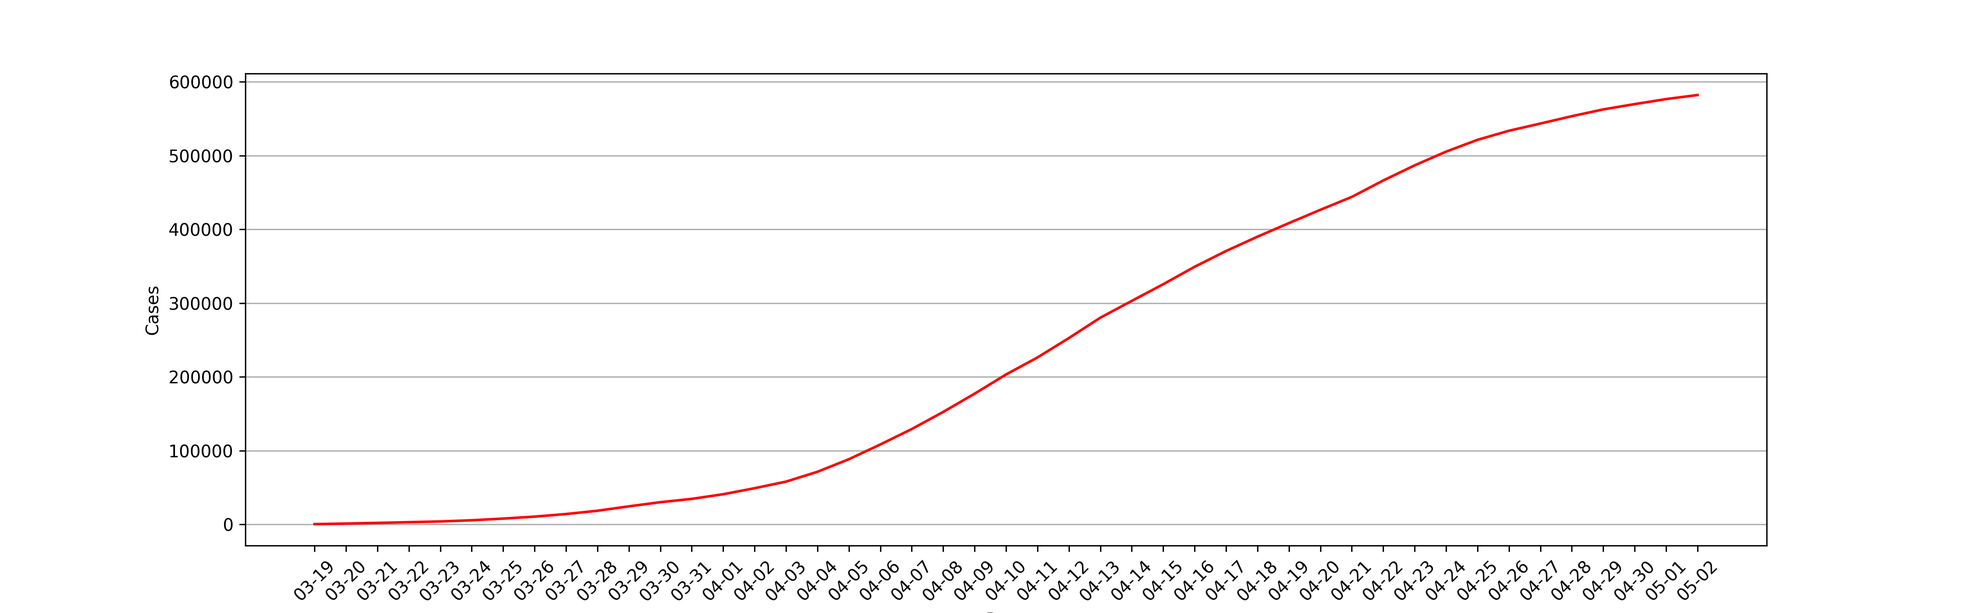
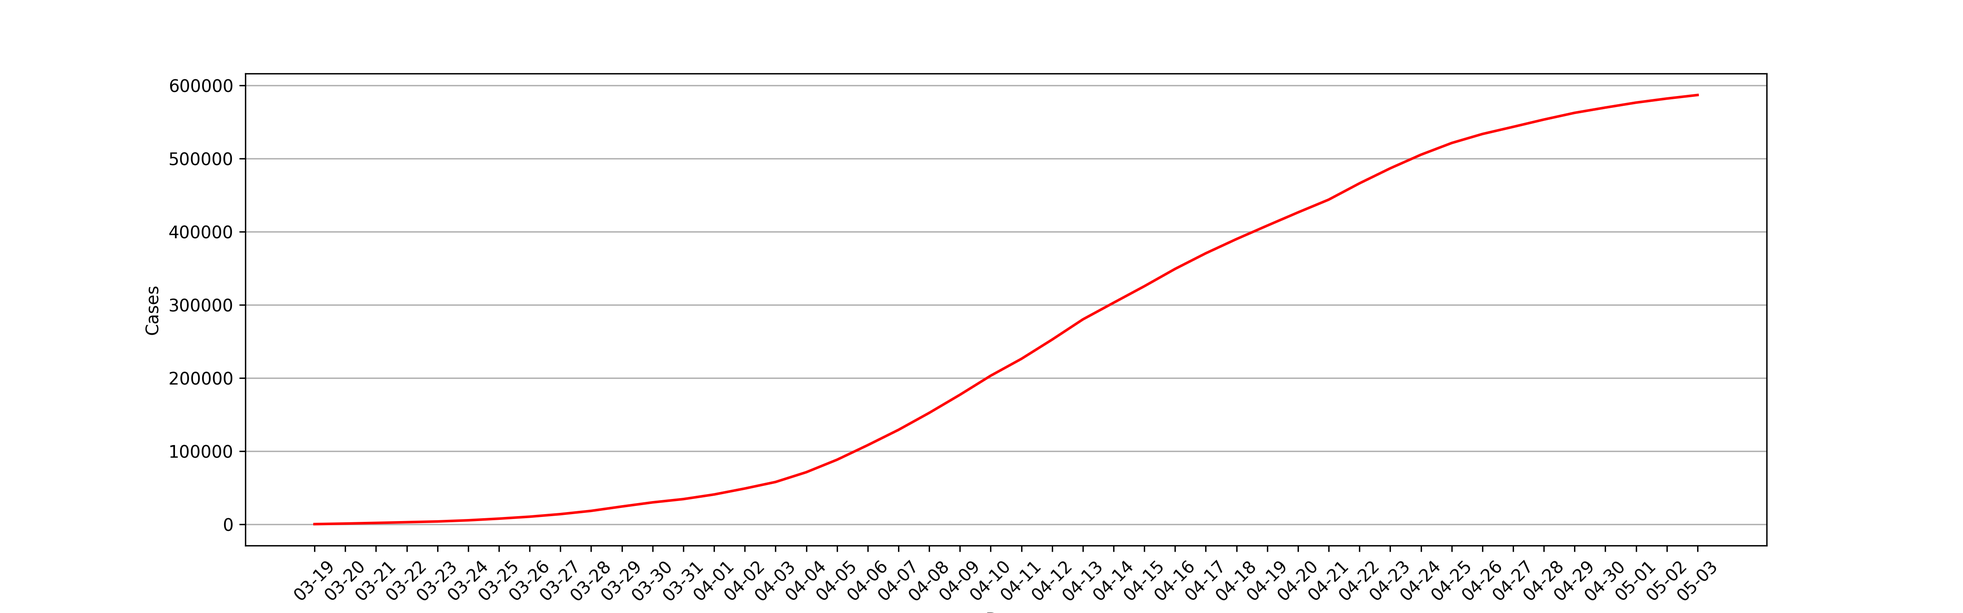
Commit by bot @ 05/04/22 11:15:01

diff --git a/archived_html/ecb75009fe8cff3799d129796f8cfec4.html b/archived_html/ecb75009fe8cff3799d129796f8cfec4.html
@@ -1,0 +1,151 @@
+<!DOCTYPE html>
+<html lang="zh-Hans">
+<head>
+    <meta charset="utf-8">
+    <meta http-equiv="Content-Security-Policy" content="upgrade-insecure-requests">
+    <meta name="viewport" content="width=device-width, initial-scale=1, maximum-scale=1, user-scalable=no">
+    <meta http-equiv="X-UA-Compatible" content="IE=Edge,chrome=1">
+    <meta http-equiv="Cache-Control" content="no-siteapp" />
+    <meta name="renderer" content="webkit">
+    <meta name="apple-mobile-web-app-capable" content="yes" />
+    <meta name="apple-mobile-web-app-status-bar-style" content="black" />
+    <title>上海2022年5月3日，新增本土新冠肺炎确诊病例260例 新增本土无症状感染者4722例 新增境外输入性新冠肺炎确诊病例3例 新增境外输入性无症状感染者1例__上海市卫生健康委员会</title>
+    <meta name="ColumnDescription" content="新闻发布"><!-- * -->
+    <meta name="ColumnKeywords" content="新闻发布"><!-- * -->
+    <!--<meta name="ColumnType" content=""> * -->
+    <meta name="ColumnName" content="新闻发布"><!-- * -->
+    <meta name="ArticleTitle" content="上海2022年5月3日，新增本土新冠肺炎确诊病例260例 新增本土无症状感染者4722例 新增境外输入性新冠肺炎确诊病例3例 新增境外输入性无症状感染者1例"><!-- * -->
+    <meta name="PubDate" content="2022-05-04"><!-- * -->
+    <meta name="ContentSource" content="上海市卫生健康委员会"><!-- * -->
+    <meta name="Author" content="上海市卫生健康委员会">
+    <meta name="Description" content="" />
+    <meta name="applicable-device" content="pc;mobile">
+    <meta name="location" content="北纬N31°11′51.89″ 东经E121°30′5.42″">
+    <!-- min CSS -->
+    <link rel="stylesheet" href="/assets/css/ETUI/ETUI3.min.css">
+    <!-- Custom CSS -->
+    <link rel="stylesheet" href="/assets/plugin/owl/owl.carousel.css">
+    <link rel="stylesheet" href="/assets/css/style.css">
+    <link rel="stylesheet" href="/assets/css/responsive.css">
+    <link rel="stylesheet" href="/assets/css/ETUI/ETUI3.Utility.css">
+    <!-- icons -->
+    <link rel="shortcut icon" href="/assets/img/ico/favicon.png">
+    <!-- 无障碍工具条 -->
+   <!-- <link rel="stylesheet" href="http://www.shanghai.gov.cn/jhelper_V2.0/jhelper_tool_style.css">
+    <script src="http://www.shanghai.gov.cn/jhelper_V2.0/wsj/jhelper_config.js" charset="gb2312"></script>
+    <noscript>不能读取工具条配置</noscript>
+    <script src="http://www.shanghai.gov.cn/jhelper_V2.0/jhelper_2.0.js" charset="gb2312"></script>
+    <noscript>不能读取工具条</noscript> 
+     -->
+    <script type="text/javascript">
+        function onsubmmit(pageIndex){
+            $("#pageIndex").val(1);
+            $("#searchField").val("0");
+            $("#timeScope").val("0");
+            $("#cmsSearchId").val("0");
+            $("#searchForm").submit();
+        }
+        function onselsubmmit(){
+            $("#pageIndex").val(1);
+            $("#searchForm").submit();
+        }
+        function psubmmit(pageIndex){
+            $("#pageIndex").val(pageIndex);
+            $("#searchForm").submit();
+        }
+        // 栏目
+        function chsubmmit(searchChId){
+            $("#pageIndex").val(1);
+            $("#searchField").val("0");
+            $("#timeScope").val("0");
+            $("#cmsSearchId").val(searchChId);
+            $("#searchForm").submit();
+        }
+    </script> 
+    <!-- 无障碍工具条 -->
+</head>
+<body>
+    <div id="accessNull"></div>
+    <div id="container">
+        <div class="channelinfo hidden"></div>
+        <script src="/assets/js/header.js"></script>
+        <div class="main" id="main">
+            <script src="/assets/js/jiansuo.js"></script>
+            <div class="main-container margin-top-15">
+                <div class="container ">
+                    <div class="relitive">
+                        <ol class="breadcrumb">
+                           <span>您现在所在的位置：</span>
+                            <li><a href="/index.html">首页</a></li>
+                            <li class="active">新闻中心</li>
+                           
+                            <li class="active">新闻发布</li>
+                           
+                        </ol>
+                        <div class="date-se">
+                            <i class="iconfont">&#xe60b;</i> <span id="time"></span>
+                        </div>
+                    </div>
+
+                    <div class="Article">
+                        <h2 id="ivs_title" class="Article-title">上海2022年5月3日，新增本土新冠肺炎确诊病例260例 新增本土无症状感染者4722例 新增境外输入性新冠肺炎确诊病例3例 新增境外输入性无症状感染者1例</br>
+                         <h2 class="Article-title">
+                            <small id="ivs_date" class="Article-time">( 2022-05-04)</small>
+                        </h2>
+                        <div id="ivs_player" style="text-align:center;"></div>
+                        <div id="ivs_content" class="Article_content">
+                           
+                                 <p style="font-size: medium;white-space: normal;margin-top: 10px;text-indent: 40px"><span style="font-size: 20px;font-family: 仿宋_GB2312">市卫健委今早（4日）通报：2022年5月3日0—24时，新增本土新冠肺炎确诊病例260和无症状感染者4722例，其中151例确诊病例为既往无症状感染者转归，108例确诊病例和4660例无症状感染者在隔离管控中发现。新增境外输入性新冠肺炎确诊病例3例和无症状感染者1例，均在闭环管控中发现。</span></p><p style="font-size: medium;white-space: normal;margin-top: 10px;text-indent: 40px"><span style="font-size: 20px;font-family: 仿宋_GB2312">2022</span><span style="font-size: 20px;font-family: 仿宋_GB2312">年5月3日0—24时，新增本土新冠肺炎确诊病例260例，含151例由既往无症状感染者转为确诊病例。新增治愈出院1869例。</span></p><p style="font-size: medium;white-space: normal;margin-top: 10px;text-indent: 40px"><strong><span style="font-size: 20px;font-family: 黑体">病例1—病例33</span></strong><span style="font-size: 20px;font-family: 仿宋_GB2312">，居住于浦东新区，</span><strong><span style="font-size: 20px;font-family: 黑体">病例34</span></strong><span style="font-size: 20px;font-family: 仿宋_GB2312">，居住于黄浦区，</span><strong><span style="font-size: 20px;font-family: 黑体">病例35—病例39</span></strong><span style="font-size: 20px;font-family: 仿宋_GB2312">，居住于徐汇区，</span><strong><span style="font-size: 20px;font-family: 黑体">病例40、病例41</span></strong><span style="font-size: 20px;font-family: 仿宋_GB2312">，居住于长宁区，</span><strong><span style="font-size: 20px;font-family: 黑体">病例42—病例50</span></strong><span style="font-size: 20px;font-family: 仿宋_GB2312">，居住于静安区，</span><strong><span style="font-size: 20px;font-family: 黑体">病例51—病例53</span></strong><span style="font-size: 20px;font-family: 仿宋_GB2312">，居住于普陀区，</span><strong><span style="font-size: 20px;font-family: 黑体">病例54—病例56</span></strong><span style="font-size: 20px;font-family: 仿宋_GB2312">，居住于虹口区，</span><strong><span style="font-size: 20px;font-family: 黑体">病例57—病例62</span></strong><span style="font-size: 20px;font-family: 仿宋_GB2312">，居住于杨浦区，</span><strong><span style="font-size: 20px;font-family: 黑体">病例63—病例65</span></strong><span style="font-size: 20px;font-family: 仿宋_GB2312">，居住于闵行区，</span><strong><span style="font-size: 20px;font-family: 黑体">病例66—病例81</span></strong><span style="font-size: 20px;font-family: 仿宋_GB2312">，居住于宝山区，</span><strong><span style="font-size: 20px;font-family: 黑体">病例82—病例108</span></strong><span style="font-size: 20px;font-family: 仿宋_GB2312">，居住于松江区，均为本市闭环隔离管控人员，其间新冠病毒核酸检测结果异常，经疾控中心复核结果为阳性。经市级专家会诊，综合流行病学史、临床症状、实验室检测和影像学检查结果等，诊断为确诊病例。</span></p><p style="font-size: medium;white-space: normal;margin-top: 10px;text-indent: 40px"><strong><span style="font-size: 20px;font-family: 黑体">病例109</span></strong><span style="font-size: 20px;font-family: 仿宋_GB2312">，居住于松江区，</span><span style="font-size: 20px;font-family: 仿宋_GB2312">在风险人群筛查中发现新冠病毒核酸检测结果异常，即被隔离管控。经疾控中心复核结果为阳性。经市级专家会诊，综合流行病学史、临床症状、实验室检测和影像学检查结果等，诊断为确诊病例。</span></p><p style="font-size: medium;white-space: normal;margin-top: 10px;text-indent: 40px"><strong><span style="font-size: 20px;font-family: 黑体">病例110—病例125</span></strong><span style="font-size: 20px;font-family: 仿宋_GB2312">，居住于浦东新区，</span><strong><span style="font-size: 20px;font-family: 黑体">病例126—病例151</span></strong><span style="font-size: 20px;font-family: 仿宋_GB2312">，居住于黄浦区，</span><strong><span style="font-size: 20px;font-family: 黑体">病例152—病例172</span></strong><span style="font-size: 20px;font-family: 仿宋_GB2312">，居住于徐汇区，</span><strong><span style="font-size: 20px;font-family: 黑体">病例173—病例176</span></strong><span style="font-size: 20px;font-family: 仿宋_GB2312">，居住于长宁区，</span><strong><span style="font-size: 20px;font-family: 黑体">病例177—病例184</span></strong><span style="font-size: 20px;font-family: 仿宋_GB2312">，居住于静安区，</span><strong><span style="font-size: 20px;font-family: 黑体">病例185—病例189</span></strong><span style="font-size: 20px;font-family: 仿宋_GB2312">，居住于普陀区，</span><strong><span style="font-size: 20px;font-family: 黑体">病例190—病例197</span></strong><span style="font-size: 20px;font-family: 仿宋_GB2312">，居住于虹口区，</span><strong><span style="font-size: 20px;font-family: 黑体">病例198—病例218</span></strong><span style="font-size: 20px;font-family: 仿宋_GB2312">，居住于杨浦区，</span><strong><span style="font-size: 20px;font-family: 黑体">病例219—病例230</span></strong><span style="font-size: 20px;font-family: 仿宋_GB2312">，居住于闵行区，</span><strong><span style="font-size: 20px;font-family: 黑体">病例231—病例248</span></strong><span style="font-size: 20px;font-family: 仿宋_GB2312">，居住于宝山区，</span><strong><span style="font-size: 20px;font-family: 黑体">病例249—病例252</span></strong><span style="font-size: 20px;font-family: 仿宋_GB2312">，居住于嘉定区，</span><strong><span style="font-size: 20px;font-family: 黑体">病例253—病例258</span></strong><span style="font-size: 20px;font-family: 仿宋_GB2312">，居住于松江区，</span><strong><span style="font-size: 20px;font-family: 黑体">病例259、病例260</span></strong><span style="font-size: 20px;font-family: 仿宋_GB2312">，居住于青浦区，为此前报告的本土无症状感染者。</span><span style="font-size: 20px;font-family: 仿宋_GB2312">经市级专家会诊，综合流行病学史、临床症状、实验室检测和影像学检查结果等，诊断为确诊病例。</span></p><p style="font-size: medium;white-space: normal;margin-top: 10px;text-indent: 40px"><span style="font-size: 20px;font-family: 仿宋_GB2312">2022</span><span style="font-size: 20px;font-family: 仿宋_GB2312">年5月3日0—24时，新增本土死亡16例。平均年龄82.9岁，最小年龄64岁，最大年龄99岁。16位患者均合并有严重的多脏器慢性基础疾病及恶性肿瘤，包括慢性淋巴细胞性白血病、肺癌合并咯血、冠心病、心功能不全、急性冠脉综合征、高血压3级（极高危）、脑梗死及后遗症、帕金森病、阿尔兹海默症、糖尿病、肝硬化失代偿伴急性上消化道大出血等。患者入院后，原发疾病加重，经抢救无效死亡。死亡的直接原因均为基础疾病。</span></p><p style="font-size: medium;white-space: normal;margin-top: 10px;text-indent: 40px"><span style="font-size: 20px;font-family: 仿宋_GB2312">2022</span><span style="font-size: 20px;font-family: 仿宋_GB2312">年5月3日0—24时，新增本土无症状感染者4722例。</span></p><p style="font-size: medium;white-space: normal;margin-top: 10px;text-indent: 40px"><strong><span style="font-size: 20px;font-family: 黑体">无症状感染者1—无症状感染者833</span></strong><span style="font-size: 20px;font-family: 仿宋_GB2312">，居住于浦东新区，</span><strong><span style="font-size: 20px;font-family: 黑体">无症状感染者834—无症状感染者1710</span></strong><span style="font-size: 20px;font-family: 仿宋_GB2312">，居住于黄浦区，</span><strong><span style="font-size: 20px;font-family: 黑体">无症状感染者1711—无症状感染者2045</span></strong><span style="font-size: 20px;font-family: 仿宋_GB2312">，居住于徐汇区，</span><strong><span style="font-size: 20px;font-family: 黑体">无症状感染者2046—无症状感染者2137</span></strong><span style="font-size: 20px;font-family: 仿宋_GB2312">，居住于长宁区，</span><strong><span style="font-size: 20px;font-family: 黑体">无症状感染者2138—无症状感染者2685</span></strong><span style="font-size: 20px;font-family: 仿宋_GB2312">，居住于静安区，</span><strong><span style="font-size: 20px;font-family: 黑体">无症状感染者2686—无症状感染者2739</span></strong><span style="font-size: 20px;font-family: 仿宋_GB2312">，居住于普陀区，</span><strong><span style="font-size: 20px;font-family: 黑体">无症状感染者2740—无症状感染者3084</span></strong><span style="font-size: 20px;font-family: 仿宋_GB2312">，居住于虹口区，</span><strong><span style="font-size: 20px;font-family: 黑体">无症状感染者3085—无症状感染者3472</span></strong><span style="font-size: 20px;font-family: 仿宋_GB2312">，居住于杨浦区，</span><strong><span style="font-size: 20px;font-family: 黑体">无症状感染者3473—无症状感染者3709</span></strong><span style="font-size: 20px;font-family: 仿宋_GB2312">，居住于闵行区，</span><strong><span style="font-size: 20px;font-family: 黑体">无症状感染者3710—无症状感染者4289</span></strong><span style="font-size: 20px;font-family: 仿宋_GB2312">，居住于宝山区，</span><strong><span style="font-size: 20px;font-family: 黑体">无症状感染者4290—无症状感染者4459</span></strong><span style="font-size: 20px;font-family: 仿宋_GB2312">，居住于嘉定区，</span><strong><span style="font-size: 20px;font-family: 黑体">无症状感染者4460—无症状感染者4463</span></strong><span style="font-size: 20px;font-family: 仿宋_GB2312">，居住于金山区，</span><strong><span style="font-size: 20px;font-family: 黑体">无症状感染者4464—无症状感染者4516</span></strong><span style="font-size: 20px;font-family: 仿宋_GB2312">，居住于松江区，</span><strong><span style="font-size: 20px;font-family: 黑体">无症状感染者4517—无症状感染者4557</span></strong><span style="font-size: 20px;font-family: 仿宋_GB2312">，居住于青浦区，</span><strong><span style="font-size: 20px;font-family: 黑体">无症状感染者4558—无症状感染者4562</span></strong><span style="font-size: 20px;font-family: 仿宋_GB2312">，居住于奉贤区，</span><strong><span style="font-size: 20px;font-family: 黑体">无症状感染者4563—无症状感染者4660</span></strong><span style="font-size: 20px;font-family: 仿宋_GB2312">，居住于崇明区，</span><span style="font-size: 20px;font-family: 仿宋_GB2312">均为本市闭环隔离管控人员，其间新冠病毒核酸检测结果异常，经疾控中心复核结果为阳性，诊断为无症状感染者。</span></p><p style="font-size: medium;white-space: normal;margin-top: 10px;text-indent: 40px"><strong><span style="font-size: 20px;font-family: 黑体">无症状感染者4661</span></strong><span style="font-size: 20px;font-family: 仿宋_GB2312">，居住于浦东新区，</span><strong><span style="font-size: 20px;font-family: 黑体">无症状感染者4662—无症状感染者4696</span></strong><span style="font-size: 20px;font-family: 仿宋_GB2312">，居住于黄浦区，</span><strong><span style="font-size: 20px;font-family: 黑体">无症状感染者4697、无症状感染者4698</span></strong><span style="font-size: 20px;font-family: 仿宋_GB2312">，居住于徐汇区，</span><strong><span style="font-size: 20px;font-family: 黑体">无症状感染者4699—无症状感染者4702</span></strong><span style="font-size: 20px;font-family: 仿宋_GB2312">，居住于长宁区，</span><strong><span style="font-size: 20px;font-family: 黑体">无症状感染者4703、无症状感染者4704</span></strong><span style="font-size: 20px;font-family: 仿宋_GB2312">，居住于虹口区，</span><strong><span style="font-size: 20px;font-family: 黑体">无症状感染者4705—无症状感染者4710</span></strong><span style="font-size: 20px;font-family: 仿宋_GB2312">，居住于杨浦区，</span><strong><span style="font-size: 20px;font-family: 黑体">无症状感染者4711—无症状感染者4716</span></strong><span style="font-size: 20px;font-family: 仿宋_GB2312">，居住于宝山区，</span><strong><span style="font-size: 20px;font-family: 黑体">无症状感染者4717</span></strong><span style="font-size: 20px;font-family: 仿宋_GB2312">，居住于嘉定区，</span><strong><span style="font-size: 20px;font-family: 黑体">无症状感染者4718—无症状感染者4720</span></strong><span style="font-size: 20px;font-family: 仿宋_GB2312">，居住于松江区，</span><strong><span style="font-size: 20px;font-family: 黑体">无症状感染者4721</span></strong><span style="font-size: 20px;font-family: 仿宋_GB2312">，居住于奉贤区，</span><strong><span style="font-size: 20px;font-family: 黑体">无症状感染者4722</span></strong><span style="font-size: 20px;font-family: 仿宋_GB2312">，居住于崇明区，</span><span style="font-size: 20px;font-family: 仿宋_GB2312">在风险人群筛查中发现新冠病毒核酸检测结果异常，即被隔离管控。经疾控中心复核结果为阳性，诊断为无症状感染者。</span></p><p style="font-size: medium;white-space: normal;text-indent: 40px"><span style="font-size: 20px;font-family: 仿宋_GB2312">2022</span><span style="font-size: 20px;font-family: 仿宋_GB2312">年5月3日0—24时，</span><a name="_Hlk89603558"></a><span style="font-size: 20px;font-family: 仿宋_GB2312">通过口岸联防联控机制，报告3例新增境外输入性新冠肺炎确诊病例</span><span style="font-size: 20px;font-family: 仿宋_GB2312">。</span></p><p style="font-size: medium;white-space: normal;text-indent: 40px"><strong><span style="font-size: 20px;font-family: 黑体">病例1</span></strong><span style="font-size: 20px;font-family: 仿宋_GB2312">为中国籍，</span><strong><span style="font-size: 20px;font-family: 黑体">病例2、病例3</span></strong><span style="font-size: 20px;font-family: 仿宋_GB2312">均为加拿大籍，病例1在加拿大工作，病例2、病例3在加拿大生活，病例1—病例3自加拿大出发，乘坐同一航班，于2022年4月22日抵达上海浦东国际机场，</span><span style="font-size: 20px;font-family: 仿宋_GB2312">入关后即被集中隔离观察，其间出现症状。综合流行病学史、临床症状、实验室检测和影像学检查结果等，诊断为确诊病例。</span></p><p style="font-size: medium;white-space: normal;text-indent: 40px"><span style="font-size: 20px;font-family: 仿宋_GB2312">3</span><span style="font-size: 20px;font-family: 仿宋_GB2312">例境外输入性确诊病例已转至定点医疗机构救治，同航班密切接触者此前均已落实集中隔离观察。</span></p><p style="font-size: medium;white-space: normal;text-indent: 40px"><span style="font-size: 20px;font-family: 仿宋_GB2312">2022</span><span style="font-size: 20px;font-family: 仿宋_GB2312">年5月3日0—24时，新增境外输入性无症状感染者1例。</span></p><p style="font-size: medium;white-space: normal;text-indent: 40px"><strong><span style="font-size: 20px;font-family: 黑体">该无症状感染者</span></strong><span style="font-size: 20px;font-family: 仿宋_GB2312">为中国籍，在加拿大生活，自加拿大出发，于2022年4月22日抵达上海浦东国际机场，入关后即被集中隔离观察，其间例行核酸检测异常。经排查，区疾控中心新冠病毒核酸检测结果为阳性。综合流行病学史、临床症状、实验室检测和影像学检查结果等，诊断为无症状感染者。</span></p><p style="font-size: medium;white-space: normal;text-indent: 40px"><span style="font-size: 20px;font-family: 仿宋_GB2312">该境外输入性无症状感染者已转至定点医疗机构医学观察，同航班密切接触者此前均已落实集中隔离观察。</span></p><p style="font-size: medium;white-space: normal;text-indent: 40px"><span style="font-size: 20px;font-family: 仿宋_GB2312">2022</span><span style="font-size: 20px;font-family: 仿宋_GB2312">年5月3日0—24时，解除医学观察本土无症状感染者9573例。</span></p><p style="font-size: medium;white-space: normal;margin-top: 10px;text-indent: 40px;vertical-align: baseline"><span style="font-size: 20px;font-family: 仿宋_GB2312">2022</span><span style="font-size: 20px;font-family: 仿宋_GB2312">年2月26日0时至2022年5月3日24时，累计本土确诊54625例，治愈出院42365例，在院治疗11770例（其中重型486例，危重型95例），死亡490例。现有待排查的疑似病例0例。</span></p><p style="font-size: medium;white-space: normal;margin-top: 10px;text-indent: 40px;vertical-align: baseline"><span style="font-size: 20px;font-family: 仿宋_GB2312">截至2022年5月3日24时，累计境外输入性确诊病例4588例，出院4579例，在院治疗9例。现有待排查的疑似病例1例。</span></p><p style="font-size: medium;white-space: normal;margin-top: 10px;vertical-align: baseline"><span style="font-size: 20px;font-family: Calibri, sans-serif">&nbsp;</span></p><table align="center" cellspacing="0" cellpadding="0" width="544"><tbody><tr style="height: 24px" class="firstRow"><td width="379" colspan="2" style="border-width: 1px; border-color: windowtext; padding: 0px 7px; border-style: solid;" height="24"><p style="text-align: center;vertical-align: baseline"><strong><span style="font-size: 19px;font-family: 仿宋_GB2312">区域</span></strong></p></td><td width="165" style="border-width: 1px; border-top-color: windowtext; border-right-color: windowtext; border-bottom-color: windowtext; border-style: solid; border-left-color: initial; padding: 0px 7px;" height="24"><p style="text-align: center;vertical-align: baseline"><strong><span style="font-size: 19px;font-family: 仿宋_GB2312">在院治疗确诊病例</span></strong></p></td></tr><tr style="height: 42px"><td width="213" rowspan="4" style="border-width: 1px; border-right-color: windowtext; border-bottom-color: windowtext; border-left-color: windowtext; border-style: solid; border-top-color: initial; padding: 0px 7px;" height="42"><p style="text-align: center;vertical-align: baseline"><span style="font-size: 19px;font-family: 仿宋_GB2312">境外输入人员</span></p><p style="text-align: center;vertical-align: baseline"><span style="font-size: 19px;font-family: 仿宋_GB2312">（按输入地分）</span></p></td><td width="165" valign="top" style="border-width: 1px; border-style: solid; border-top-color: initial; border-left-color: initial; border-bottom-color: windowtext; border-right-color: windowtext; padding: 0px 7px;" height="42"><p style="text-align: center;vertical-align: middle"><span style="font-size: 19px;font-family: 仿宋_GB2312">加拿大</span></p></td><td width="165" valign="top" style="border-width: 1px; border-style: solid; border-top-color: initial; border-left-color: initial; border-bottom-color: windowtext; border-right-color: windowtext; padding: 0px 7px;" height="42"><p style="text-align: center;vertical-align: middle"><span style="font-size: 19px;font-family: 仿宋_GB2312">6</span></p></td></tr><tr style="height: 33px"><td width="165" valign="top" style="border-width: 1px; border-style: solid; border-top-color: initial; border-left-color: initial; border-bottom-color: windowtext; border-right-color: windowtext; padding: 0px 7px;" height="33"><p style="text-align: center;vertical-align: middle"><span style="font-size: 19px;font-family: 仿宋_GB2312">科特迪瓦</span></p></td><td width="165" valign="top" style="border-width: 1px; border-style: solid; border-top-color: initial; border-left-color: initial; border-bottom-color: windowtext; border-right-color: windowtext; padding: 0px 7px;" height="33"><p style="text-align: center;vertical-align: middle"><span style="font-size: 19px;font-family: 仿宋_GB2312">1</span></p></td></tr><tr style="height: 33px"><td width="165" valign="top" style="border-width: 1px; border-style: solid; border-top-color: initial; border-left-color: initial; border-bottom-color: windowtext; border-right-color: windowtext; padding: 0px 7px;" height="33"><p style="text-align: center;vertical-align: middle"><span style="font-size: 19px;font-family: 仿宋_GB2312">法国</span></p></td><td width="165" valign="top" style="border-width: 1px; border-style: solid; border-top-color: initial; border-left-color: initial; border-bottom-color: windowtext; border-right-color: windowtext; padding: 0px 7px;" height="33"><p style="text-align: center;vertical-align: middle"><span style="font-size: 19px;font-family: 仿宋_GB2312">1</span></p></td></tr><tr style="height: 33px"><td width="165" valign="top" style="border-width: 1px; border-style: solid; border-top-color: initial; border-left-color: initial; border-bottom-color: windowtext; border-right-color: windowtext; padding: 0px 7px;" height="33"><p style="text-align: center;vertical-align: middle"><span style="font-size: 19px;font-family: 仿宋_GB2312">乌干达</span></p></td><td width="165" valign="top" style="border-width: 1px; border-style: solid; border-top-color: initial; border-left-color: initial; border-bottom-color: windowtext; border-right-color: windowtext; padding: 0px 7px;" height="33"><p style="text-align: center;vertical-align: middle"><span style="font-size: 19px;font-family: 仿宋_GB2312">1</span></p></td></tr><tr style="height: 33px"><td width="213" rowspan="16" style="border-width: 1px; border-right-color: windowtext; border-bottom-color: windowtext; border-left-color: windowtext; border-style: solid; border-top-color: initial; padding: 0px 7px;" height="33"><p style="text-indent: 19px;vertical-align: baseline"><span style="font-size: 19px;font-family: 仿宋_GB2312">本市居住或工作地</span></p></td><td width="165" style="border-width: 1px; border-style: solid; border-top-color: initial; border-left-color: initial; border-bottom-color: windowtext; border-right-color: windowtext; padding: 0px 7px;" height="33"><p style="text-align: center;vertical-align: middle"><span style="font-size: 19px;font-family: 仿宋_GB2312">浦东</span></p></td><td width="165" style="border-width: 1px; border-style: solid; border-top-color: initial; border-left-color: initial; border-bottom-color: windowtext; border-right-color: windowtext; padding: 0px 7px;" height="33"><p style="text-align: center"><span style="font-size: 19px;font-family: 仿宋_GB2312">1636</span></p></td></tr><tr style="height: 33px"><td width="165" style="border-width: 1px; border-style: solid; border-top-color: initial; border-left-color: initial; border-bottom-color: windowtext; border-right-color: windowtext; padding: 0px 7px;" height="33"><p style="text-align: center;vertical-align: middle"><span style="font-size: 19px;font-family: 仿宋_GB2312">黄浦</span></p></td><td width="165" style="border-width: 1px; border-style: solid; border-top-color: initial; border-left-color: initial; border-bottom-color: windowtext; border-right-color: windowtext; padding: 0px 7px;" height="33"><p style="text-align: center"><span style="font-size: 19px;font-family: 仿宋_GB2312">1824</span></p></td></tr><tr style="height: 33px"><td width="165" style="border-width: 1px; border-style: solid; border-top-color: initial; border-left-color: initial; border-bottom-color: windowtext; border-right-color: windowtext; padding: 0px 7px;" height="33"><p style="text-align: center;vertical-align: middle"><span style="font-size: 19px;font-family: 仿宋_GB2312">徐汇</span></p></td><td width="165" style="border-width: 1px; border-style: solid; border-top-color: initial; border-left-color: initial; border-bottom-color: windowtext; border-right-color: windowtext; padding: 0px 7px;" height="33"><p style="text-align: center"><span style="font-size: 19px;font-family: 仿宋_GB2312">1745</span></p></td></tr><tr style="height: 33px"><td width="165" style="border-width: 1px; border-style: solid; border-top-color: initial; border-left-color: initial; border-bottom-color: windowtext; border-right-color: windowtext; padding: 0px 7px;" height="33"><p style="text-align: center;vertical-align: middle"><span style="font-size: 19px;font-family: 仿宋_GB2312">长宁</span></p></td><td width="165" style="border-width: 1px; border-style: solid; border-top-color: initial; border-left-color: initial; border-bottom-color: windowtext; border-right-color: windowtext; padding: 0px 7px;" height="33"><p style="text-align: center"><span style="font-size: 19px;font-family: 仿宋_GB2312">705</span></p></td></tr><tr style="height: 33px"><td width="165" style="border-width: 1px; border-style: solid; border-top-color: initial; border-left-color: initial; border-bottom-color: windowtext; border-right-color: windowtext; padding: 0px 7px;" height="33"><p style="text-align: center;vertical-align: middle"><span style="font-size: 19px;font-family: 仿宋_GB2312">静安</span></p></td><td width="165" style="border-width: 1px; border-style: solid; border-top-color: initial; border-left-color: initial; border-bottom-color: windowtext; border-right-color: windowtext; padding: 0px 7px;" height="33"><p style="text-align: center"><span style="font-size: 19px;font-family: 仿宋_GB2312">1081</span></p></td></tr><tr style="height: 33px"><td width="165" style="border-width: 1px; border-style: solid; border-top-color: initial; border-left-color: initial; border-bottom-color: windowtext; border-right-color: windowtext; padding: 0px 7px;" height="33"><p style="text-align: center;vertical-align: middle"><span style="font-size: 19px;font-family: 仿宋_GB2312">普陀</span></p></td><td width="165" style="border-width: 1px; border-style: solid; border-top-color: initial; border-left-color: initial; border-bottom-color: windowtext; border-right-color: windowtext; padding: 0px 7px;" height="33"><p style="text-align: center"><span style="font-size: 19px;font-family: 仿宋_GB2312">538</span></p></td></tr><tr style="height: 33px"><td width="165" style="border-width: 1px; border-style: solid; border-top-color: initial; border-left-color: initial; border-bottom-color: windowtext; border-right-color: windowtext; padding: 0px 7px;" height="33"><p style="text-align: center;vertical-align: middle"><span style="font-size: 19px;font-family: 仿宋_GB2312">虹口</span></p></td><td width="165" style="border-width: 1px; border-style: solid; border-top-color: initial; border-left-color: initial; border-bottom-color: windowtext; border-right-color: windowtext; padding: 0px 7px;" height="33"><p style="text-align: center"><span style="font-size: 19px;font-family: 仿宋_GB2312">1029</span></p></td></tr><tr style="height: 33px"><td width="165" style="border-width: 1px; border-style: solid; border-top-color: initial; border-left-color: initial; border-bottom-color: windowtext; border-right-color: windowtext; padding: 0px 7px;" height="33"><p style="text-align: center;vertical-align: middle"><span style="font-size: 19px;font-family: 仿宋_GB2312">杨浦</span></p></td><td width="165" style="border-width: 1px; border-style: solid; border-top-color: initial; border-left-color: initial; border-bottom-color: windowtext; border-right-color: windowtext; padding: 0px 7px;" height="33"><p style="text-align: center"><span style="font-size: 19px;font-family: 仿宋_GB2312">876</span></p></td></tr><tr style="height: 33px"><td width="165" style="border-width: 1px; border-style: solid; border-top-color: initial; border-left-color: initial; border-bottom-color: windowtext; border-right-color: windowtext; padding: 0px 7px;" height="33"><p style="text-align: center;vertical-align: middle"><span style="font-size: 19px;font-family: 仿宋_GB2312">闵行</span></p></td><td width="165" style="border-width: 1px; border-style: solid; border-top-color: initial; border-left-color: initial; border-bottom-color: windowtext; border-right-color: windowtext; padding: 0px 7px;" height="33"><p style="text-align: center"><span style="font-size: 19px;font-family: 仿宋_GB2312">988</span></p></td></tr><tr style="height: 33px"><td width="165" style="border-width: 1px; border-style: solid; border-top-color: initial; border-left-color: initial; border-bottom-color: windowtext; border-right-color: windowtext; padding: 0px 7px;" height="33"><p style="text-align: center;vertical-align: middle"><span style="font-size: 19px;font-family: 仿宋_GB2312">宝山</span></p></td><td width="165" style="border-width: 1px; border-style: solid; border-top-color: initial; border-left-color: initial; border-bottom-color: windowtext; border-right-color: windowtext; padding: 0px 7px;" height="33"><p style="text-align: center"><span style="font-size: 19px;font-family: 仿宋_GB2312">719</span></p></td></tr><tr style="height: 33px"><td width="165" style="border-width: 1px; border-style: solid; border-top-color: initial; border-left-color: initial; border-bottom-color: windowtext; border-right-color: windowtext; padding: 0px 7px;" height="33"><p style="text-align: center;vertical-align: middle"><span style="font-size: 19px;font-family: 仿宋_GB2312">嘉定</span></p></td><td width="165" style="border-width: 1px; border-style: solid; border-top-color: initial; border-left-color: initial; border-bottom-color: windowtext; border-right-color: windowtext; padding: 0px 7px;" height="33"><p style="text-align: center"><span style="font-size: 19px;font-family: 仿宋_GB2312">53</span></p></td></tr><tr style="height: 33px"><td width="165" style="border-width: 1px; border-style: solid; border-top-color: initial; border-left-color: initial; border-bottom-color: windowtext; border-right-color: windowtext; padding: 0px 7px;" height="33"><p style="text-align: center;vertical-align: middle"><span style="font-size: 19px;font-family: 仿宋_GB2312">金山</span></p></td><td width="165" style="border-width: 1px; border-style: solid; border-top-color: initial; border-left-color: initial; border-bottom-color: windowtext; border-right-color: windowtext; padding: 0px 7px;" height="33"><p style="text-align: center"><span style="font-size: 19px;font-family: 仿宋_GB2312">3</span></p></td></tr><tr style="height: 33px"><td width="165" style="border-width: 1px; border-style: solid; border-top-color: initial; border-left-color: initial; border-bottom-color: windowtext; border-right-color: windowtext; padding: 0px 7px;" height="33"><p style="text-align: center;vertical-align: middle"><span style="font-size: 19px;font-family: 仿宋_GB2312">松江</span></p></td><td width="165" style="border-width: 1px; border-style: solid; border-top-color: initial; border-left-color: initial; border-bottom-color: windowtext; border-right-color: windowtext; padding: 0px 7px;" height="33"><p style="text-align: center"><span style="font-size: 19px;font-family: 仿宋_GB2312">99</span></p></td></tr><tr style="height: 33px"><td width="165" style="border-width: 1px; border-style: solid; border-top-color: initial; border-left-color: initial; border-bottom-color: windowtext; border-right-color: windowtext; padding: 0px 7px;" height="33"><p style="text-align: center;vertical-align: middle"><span style="font-size: 19px;font-family: 仿宋_GB2312">青浦</span></p></td><td width="165" style="border-width: 1px; border-style: solid; border-top-color: initial; border-left-color: initial; border-bottom-color: windowtext; border-right-color: windowtext; padding: 0px 7px;" height="33"><p style="text-align: center"><span style="font-size: 19px;font-family: 仿宋_GB2312">192</span></p></td></tr><tr style="height: 33px"><td width="165" style="border-width: 1px; border-style: solid; border-top-color: initial; border-left-color: initial; border-bottom-color: windowtext; border-right-color: windowtext; padding: 0px 7px;" height="33"><p style="text-align: center;vertical-align: middle"><span style="font-size: 19px;font-family: 仿宋_GB2312">奉贤</span></p></td><td width="165" style="border-width: 1px; border-style: solid; border-top-color: initial; border-left-color: initial; border-bottom-color: windowtext; border-right-color: windowtext; padding: 0px 7px;" height="33"><p style="text-align: center"><span style="font-size: 19px;font-family: 仿宋_GB2312">86</span></p></td></tr><tr style="height: 33px"><td width="165" style="border-width: 1px; border-style: solid; border-top-color: initial; border-left-color: initial; border-bottom-color: windowtext; border-right-color: windowtext; padding: 0px 7px;" height="33"><p style="text-align: center;vertical-align: middle"><span style="font-size: 19px;font-family: 仿宋_GB2312">崇明</span></p></td><td width="165" style="border-width: 1px; border-style: solid; border-top-color: initial; border-left-color: initial; border-bottom-color: windowtext; border-right-color: windowtext; padding: 0px 7px;" height="33"><p style="text-align: center"><span style="font-size: 19px;font-family: 仿宋_GB2312">196</span></p></td></tr><tr style="height: 33px"><td width="379" colspan="2" style="border-width: 1px; border-right-color: windowtext; border-bottom-color: windowtext; border-left-color: windowtext; border-style: solid; border-top-color: initial; padding: 0px 7px;" height="33"><p style="text-align: center;vertical-align: baseline"><span style="font-size: 19px;font-family: 仿宋_GB2312">合计</span></p></td><td width="165" style="border-width: 1px; border-style: solid; border-top-color: initial; border-left-color: initial; border-bottom-color: windowtext; border-right-color: windowtext; padding: 0px 7px;" height="33"><p style="text-align: center;vertical-align: baseline"><span style="font-size: 19px;font-family: 仿宋_GB2312">11779</span></p></td></tr></tbody></table><p style="font-size: medium;white-space: normal;margin-top: 10px;text-indent: 43px;vertical-align: baseline"><span style="font-size: 21px;font-family: Calibri, sans-serif">&nbsp;</span></p><p style="font-size: medium;white-space: normal;margin-top: 10px;text-indent: 43px;vertical-align: baseline"><span style="font-size: 21px;font-family: Calibri, sans-serif">&nbsp;</span></p><p><br/></p>
+                        </div>
+                        </div>
+                    </div>
+                </div>
+            </div>
+        </div>
+        <script src="/assets/js/footer.js"></script>
+        </div>
+    <!--Main JS-->
+    <script src="/assets/js/ETUI/jquery.min.1.12.4.js"></script>
+    <!--[if lt IE 9]>
+    <script src="/assets/js/ETUI/html5shiv.min.js"></script>
+    <script src="/assets/js/ETUI/respond.min.js"></script>
+    <![endif]-->
+    <script src="/assets/js/ETUI/ETUI3.min.js"></script>
+    <script src="/assets/plugin/owl/owl.carousel.min.js"></script>
+    <!--Custom JS-->
+    <script src="/assets/js/main.js"></script>
+    <script src="/assets/js/language.js"></script>
+    <!-- <script src="/assets/js/Time.js"></script> -->
+    <!--
+  <script src="/assets/js/jhelper_config.js" charset="gb2312"></script>
+<script type="text/javascript" src="https://jhelper.shanghai.gov.cn/publicJS/3100000010.js"></script>
+-->
+<script src="https://wsjkw.sh.gov.cn/wza/jhelper_config.js" charset="gb2312"></script>
+    <script type="text/javascript" src="http://jhelper.shanghai.gov.cn/publicJS/3100000010.js"></script>
+   <!-- <script type="text/javascript" src="http://voice.ewdcloud.com.cn:9292/js/ew_msc.js"></script>-->
+    <script>
+        jQuery(document).ready(function () {
+            Main.init();
+        });
+        jQuery(document).ready(function () {
+	        getToolbarMod();
+        });
+    </script>
+    <script>
+        function currentTime(){
+            var d = new Date(),str = '';
+            str += d.getFullYear()+'年';
+            str  += d.getMonth() + 1+'月';
+            str  += d.getDate()+'日';
+            var a = new Array("日", "一", "二", "三", "四", "五", "六");
+            var week = new Date().getDay();
+            var tody = "星期"+ a[week];
+            str +=' ';
+            str  += tody ;
+            return str;
+
+        }
+        setInterval(function(){$('#time').html(currentTime)},1000);
+    </script>
+</body>
+</html>

diff --git a/README.md b/README.md
@@ -14,6 +14,7 @@ This project will be updated every day before Shanghai reopens. JSON files with 
 
 | Date/Details | New Cases  | Deaths | Confirmed Cases | Asymptomatic Cases | A2C Cases(*) |
 | ---- | ---------- | ---------- | ---------------- | ----------------- | ---------------------------- |
+| 2022-05-03 | 4831 | 16 | 260 | 4722 | 151 |
 | 2022-05-02 | 5514 | 20 | 274 | 5395 | 155 |
 | 2022-05-01 | 6804 | 32 | 727 | 6606 | 529 |
 | 2022-04-30 | 7189 | 38 | 788 | 7084 | 683 |
@@ -68,6 +69,7 @@ This project will be updated every day before Shanghai reopens. JSON files with 
 
 | Date | Total Cases  | Total Deaths | Case‑Fatality |
 | ---- | ---------- | ---------- | ---------- |
+| 2022-05-03 | 587027 | 465 | 0.0792% |
 | 2022-05-02 | 582196 | 449 | 0.0771% |
 | 2022-05-01 | 576682 | 429 | 0.0744% |
 | 2022-04-30 | 569878 | 397 | 0.0697% |
